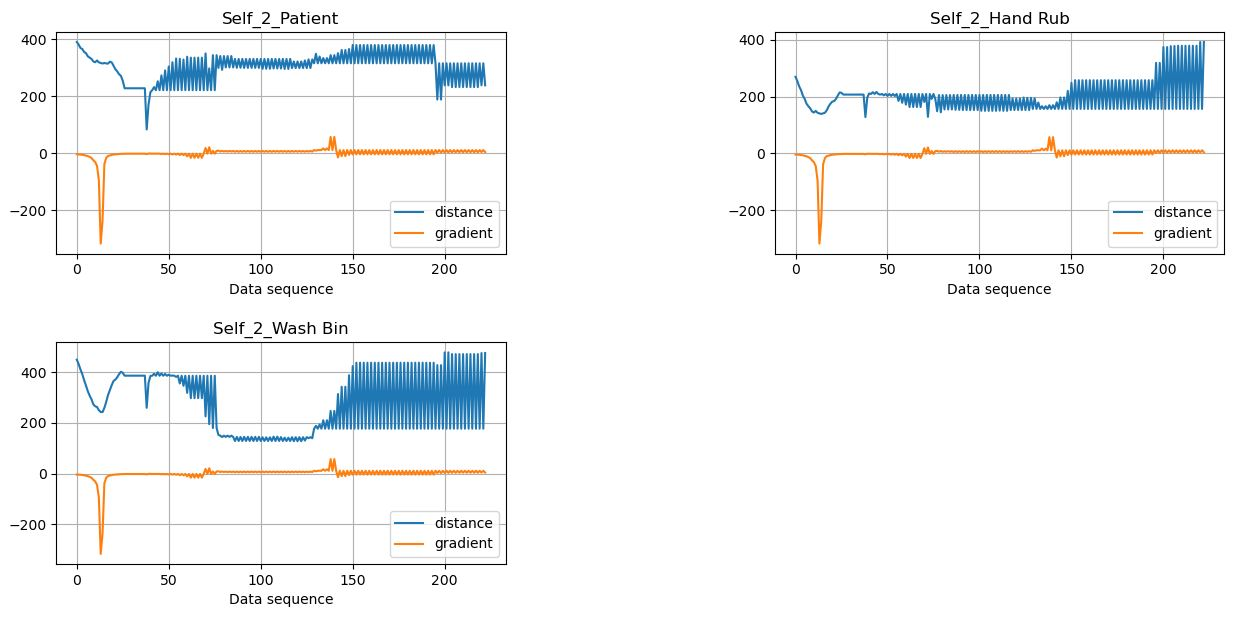
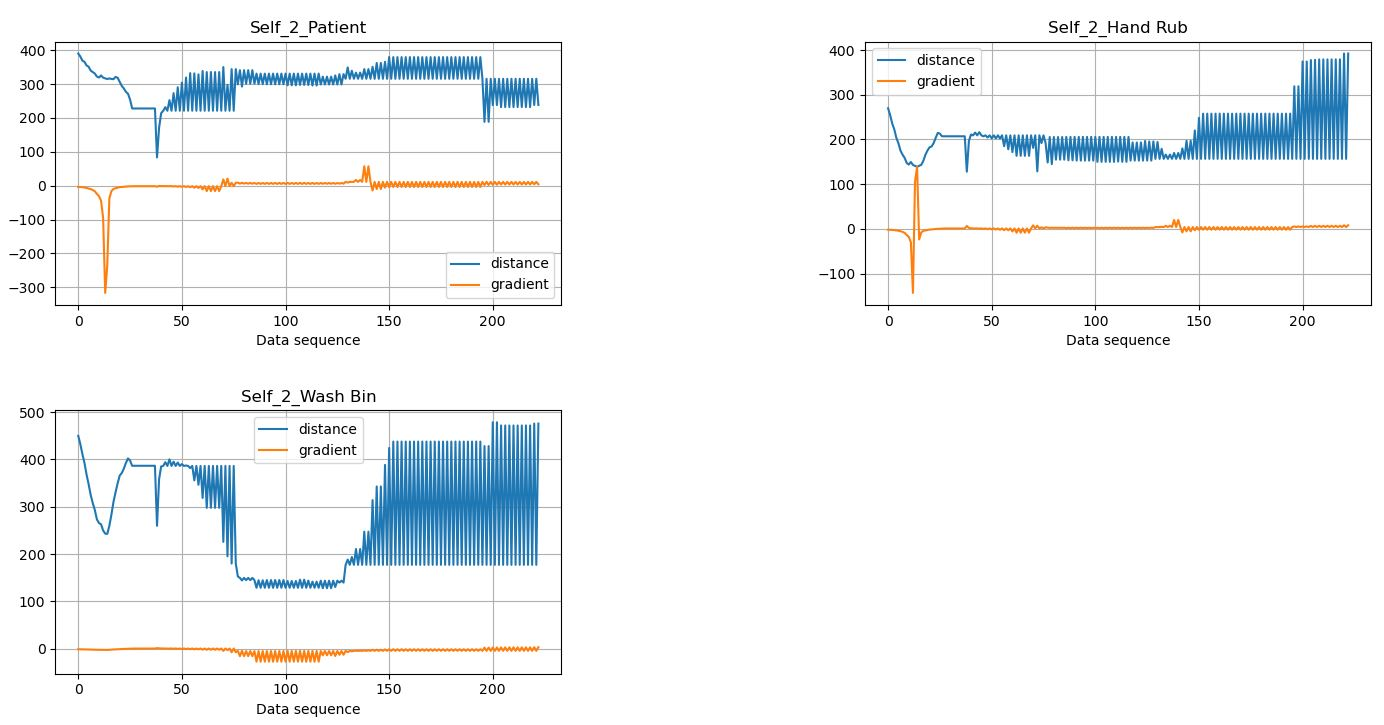
updated git image and plot bug

Changed region(s): [[0.5795, 0.0, 1.0, 0.4872], [0.0, 0.5176, 0.427, 1.0], [0.0, 0.0, 0.427, 0.4872]]

diff --git a/visualization.py b/visualization.py
@@ -117,7 +117,7 @@ def plot_all_distance_gradient(dist_patient,dist_rub,dist_wash,\
 
     plt.subplot(2,2,2)
     line2 = plt.plot(dist_rub)
-    line5 = plt.plot(grad_patient)
+    line5 = plt.plot(grad_rub)
     plt.title("Self_2_Hand Rub")
     plt.xlabel("Data sequence")
     plt.legend(['distance','gradient'])
@@ -125,7 +125,7 @@ def plot_all_distance_gradient(dist_patient,dist_rub,dist_wash,\
 
     plt.subplot(2,2,3)
     line3 = plt.plot(dist_wash)
-    line6 = plt.plot(grad_patient)
+    line6 = plt.plot(grad_wash)
     plt.title("Self_2_Wash Bin")
     plt.xlabel("Data sequence")
     plt.legend(['distance','gradient'])

diff --git a/single_id_counter.py b/single_id_counter.py
@@ -52,8 +52,11 @@ def gradient_calculation(self_x,self_y):
 def color_info(event,x,y,flag,param):
     #When Left is clicked in the mouse
     if event == cv2.EVENT_LBUTTONDOWN:  
+        a,b,c = gradient_calculation(x,y)
+        d,e,f = distance_calculation(x,y)
         print("Chosen Pixel: X->{} Y->{}".format(x,y))
-
+        print("Gradients -> Patient = {} | -> Wash Bin = {} | -> Hand Rub = {}".format(a,c,b))
+        print("Distnaces -> Patient = {} | -> Wash Bin = {} | -> Hand Rub = {}\r\n".format(d,f,e))
 
 #Read log file (x,y)
 with open(log_file_path) as log_file:
